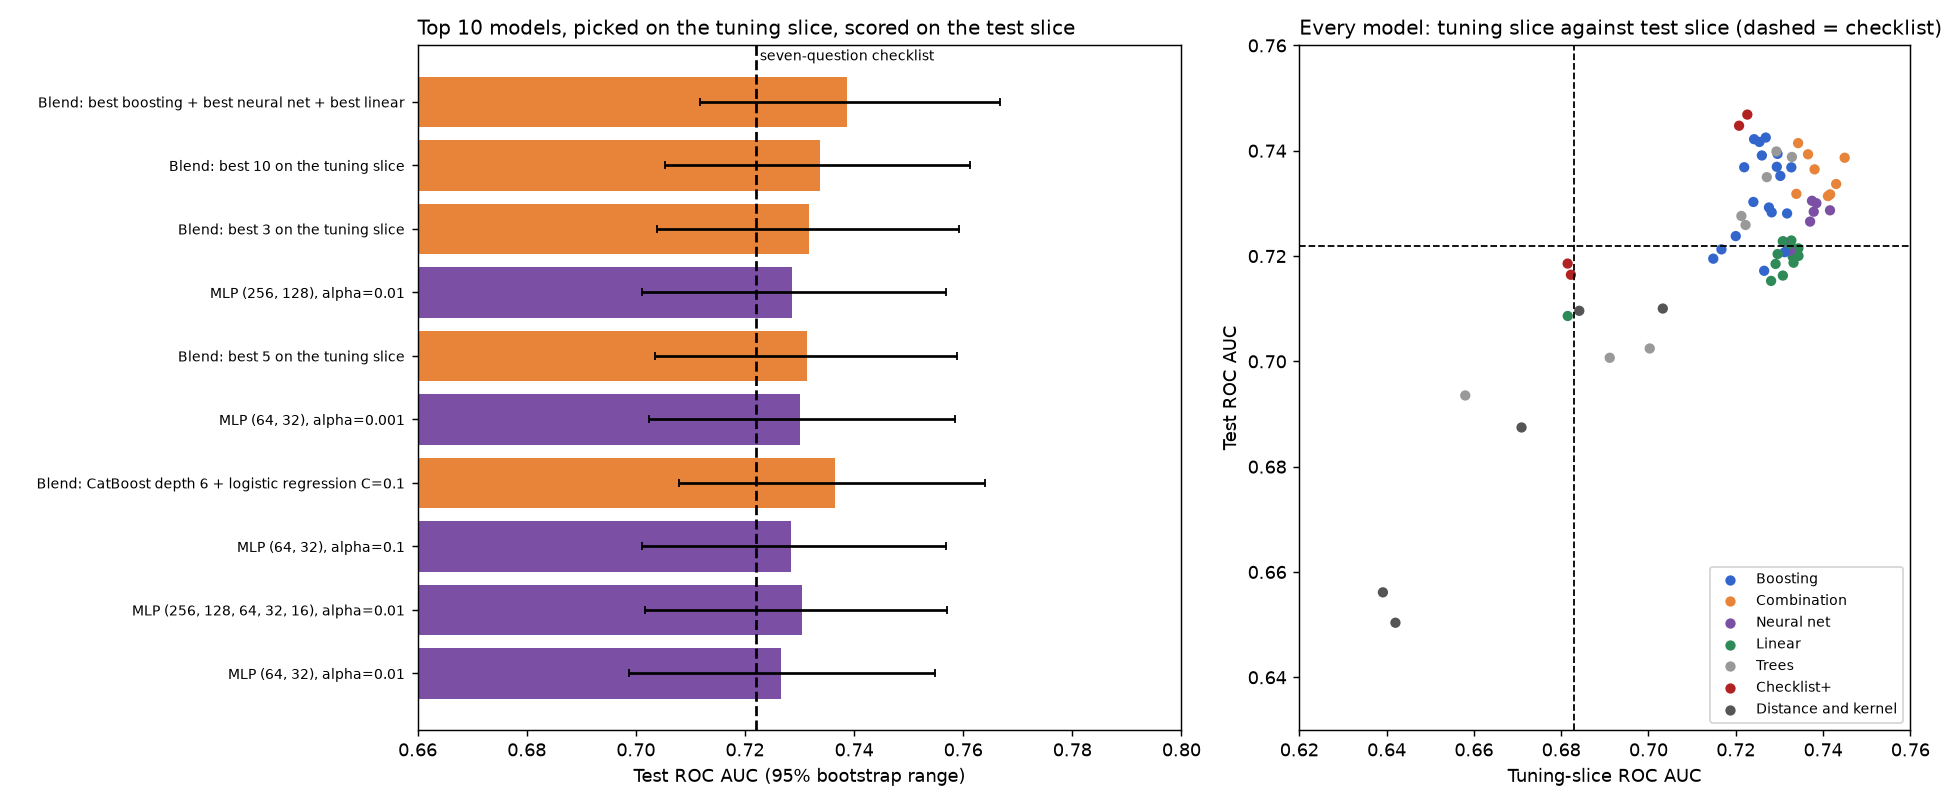
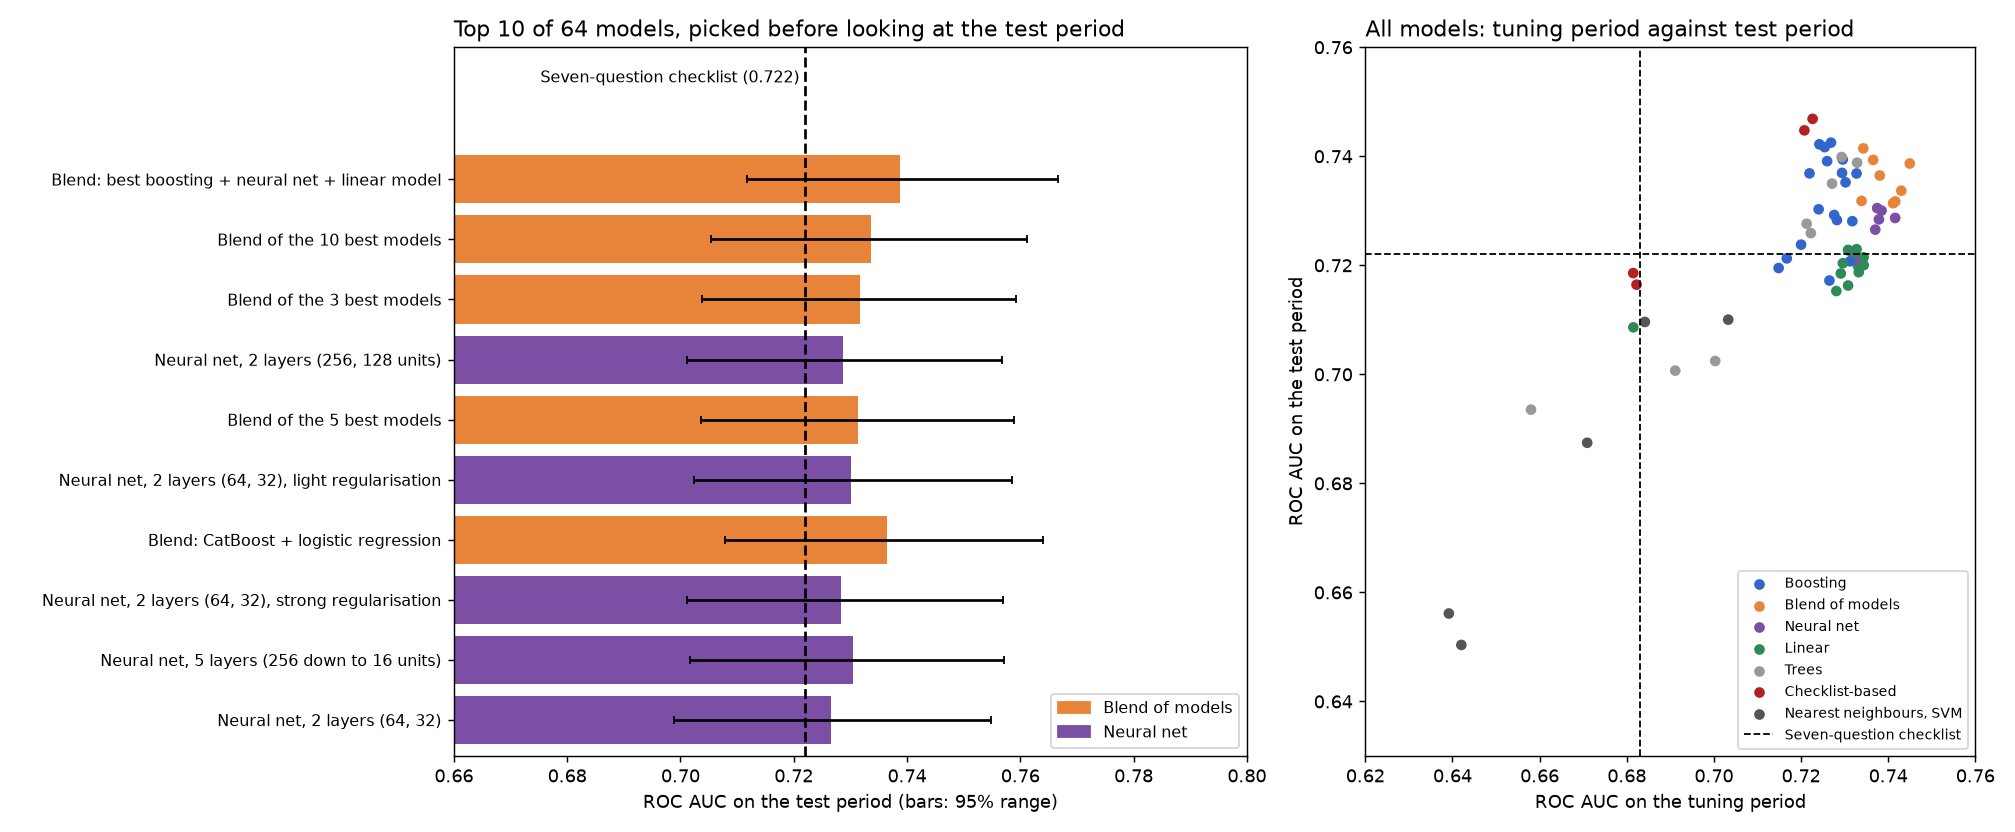
Plain-English labels on the benchmark and spoiler charts

diff --git a/public/replot_benchmark.py b/public/replot_benchmark.py
@@ -1,0 +1,55 @@
+"""Redraw results/benchmark_top10.png from results/benchmark_all_models.csv (no retraining needed)."""
+from pathlib import Path
+
+import matplotlib
+matplotlib.use("Agg")
+import matplotlib.pyplot as plt
+import pandas as pd
+
+HERE = Path(__file__).resolve().parent
+OUT = HERE / "results"
+COL = {"Boosting": "#3366CC", "Combination": "#E8833A", "Neural net": "#7B4FA3", "Linear": "#2E8B57", "Trees": "#999999",
+       "Checklist+": "#B22222", "Distance": "#555555", "Kernel": "#555555"}
+
+
+def nice(name):
+    """Plain-English names for the chart (the CSV keeps the technical names)."""
+    rules = {"Blend: best boosting + best neural net + best linear": "Blend: best boosting + neural net + linear model",
+             "Blend: best 10 on the tuning slice": "Blend of the 10 best models", "Blend: best 5 on the tuning slice": "Blend of the 5 best models",
+             "Blend: best 3 on the tuning slice": "Blend of the 3 best models", "Blend: CatBoost depth 6 + logistic regression C=0.1": "Blend: CatBoost + logistic regression",
+             "MLP (256, 128), alpha=0.01": "Neural net, 2 layers (256, 128 units)", "MLP (64, 32), alpha=0.001": "Neural net, 2 layers (64, 32), light regularisation",
+             "MLP (64, 32), alpha=0.1": "Neural net, 2 layers (64, 32), strong regularisation", "MLP (64, 32), alpha=0.01": "Neural net, 2 layers (64, 32)",
+             "MLP (256, 128, 64, 32, 16), alpha=0.01": "Neural net, 5 layers (256 down to 16 units)"}
+    return rules.get(name, name)
+
+
+def make_figure():
+    tab = pd.read_csv(OUT / "benchmark_all_models.csv")
+    chk = pd.read_csv(OUT / "benchmark_checklist.csv").iloc[0]
+    top = tab.head(10).iloc[::-1]
+    fig, (a1, a2) = plt.subplots(1, 2, figsize=(15.5, 6.4), gridspec_kw={"width_ratios": [1.3, 1]})
+    a1.barh([nice(m) for m in top["model"]], top["test_auc"], xerr=[top["test_auc"] - top["test_lo"], top["test_hi"] - top["test_auc"]],
+            color=[COL[f] for f in top["family"]], ecolor="black", capsize=2)
+    a1.axvline(chk["test_auc"], color="black", ls="--")
+    a1.text(chk["test_auc"] - 0.001, 10.55, f"Seven-question checklist ({chk['test_auc']:.3f})", fontsize=9, va="bottom", ha="right")
+    a1.set_xlim(0.66, 0.8); a1.set_ylim(-0.6, 11.2)
+    a1.set_xlabel("ROC AUC on the test period (bars: 95% range)")
+    a1.set_title("Top 10 of 64 models, picked before looking at the test period", fontsize=12, loc="left")
+    a1.tick_params(axis="y", labelsize=9)
+    from matplotlib.patches import Patch
+    a1.legend(handles=[Patch(color=COL["Combination"], label="Blend of models"), Patch(color=COL["Neural net"], label="Neural net")], fontsize=9, loc="lower right")
+    a2.scatter(tab["val_auc"], tab["test_auc"], c=[COL[f] for f in tab["family"]], s=24)
+    a2.axhline(chk["test_auc"], color="black", ls="--", lw=1); a2.axvline(chk["val_auc"], color="black", ls="--", lw=1)
+    a2.set_xlim(0.62, 0.76); a2.set_ylim(0.63, 0.76)
+    for lab, c in [("Boosting", COL["Boosting"]), ("Blend of models", COL["Combination"]), ("Neural net", COL["Neural net"]), ("Linear", COL["Linear"]),
+                   ("Trees", COL["Trees"]), ("Checklist-based", COL["Checklist+"]), ("Nearest neighbours, SVM", COL["Distance"])]:
+        a2.scatter([], [], c=c, s=24, label=lab)
+    a2.plot([], [], "k--", lw=1, label="Seven-question checklist")
+    a2.legend(fontsize=8, loc="lower right")
+    a2.set_xlabel("ROC AUC on the tuning period"); a2.set_ylabel("ROC AUC on the test period")
+    a2.set_title("All models: tuning period against test period", fontsize=12, loc="left")
+    fig.tight_layout(); fig.savefig(OUT / "benchmark_top10.png", dpi=130); plt.close(fig)
+
+
+if __name__ == "__main__":
+    make_figure()

diff --git a/public/benchmark_models.py b/public/benchmark_models.py
@@ -284,19 +284,7 @@ print("\nTest AUC of the 10 models best on TEST (optimistic, shown only to size 
       % (tab.test_auc.nlargest(10).mean(), top.test_auc.mean()))
 
 # ------------------------------------------------------------------ figure
-fig, (a1, a2) = plt.subplots(1, 2, figsize=(15, 6.2), gridspec_kw={"width_ratios": [1.25, 1]})
-t = top.iloc[::-1]
-cols = {"Boosting": "#3366CC", "Combination": "#E8833A", "Neural net": "#7B4FA3", "Linear": "#2E8B57", "Trees": "#999999", "Checklist+": "#B22222", "Distance": "#555555", "Kernel": "#555555"}
-a1.barh(t["model"], t["test_auc"], xerr=[t["test_auc"] - t["test_lo"], t["test_hi"] - t["test_auc"]], color=[cols.get(f, "#888") for f in t["family"]], ecolor="black", capsize=2)
-a1.axvline(chk_auc_te, color="black", ls="--"); a1.text(chk_auc_te, 9.6, " seven-question checklist", fontsize=8, va="bottom")
-a1.set_xlim(0.66, 0.8); a1.set_xlabel("Test ROC AUC (95% bootstrap range)"); a1.set_title("Top 10 models, picked on the tuning slice, scored on the test slice", fontsize=11, loc="left")
-a1.tick_params(axis="y", labelsize=8)
-a2.scatter(tab["val_auc"], tab["test_auc"], c=[cols.get(f, "#888") for f in tab["family"]], s=22)
-a2.axhline(chk_auc_te, color="black", ls="--", lw=1); a2.axvline(chk_auc_va, color="black", ls="--", lw=1)
-a2.set_xlim(0.62, 0.76); a2.set_ylim(0.63, 0.76)   # the naive Bayes outlier (0.53, 0.52) is left off the chart
-for fam, colr in [("Boosting", "#3366CC"), ("Combination", "#E8833A"), ("Neural net", "#7B4FA3"), ("Linear", "#2E8B57"), ("Trees", "#999999"), ("Checklist+", "#B22222"), ("Distance and kernel", "#555555")]:
-    a2.scatter([], [], c=colr, s=22, label=fam)
-a2.legend(fontsize=8, loc="lower right")
-a2.set_xlabel("Tuning-slice ROC AUC"); a2.set_ylabel("Test ROC AUC"); a2.set_title("Every model: tuning slice against test slice (dashed = checklist)", fontsize=11, loc="left")
-fig.tight_layout(); fig.savefig(OUT / "benchmark_top10.png", dpi=130)
+pd.DataFrame([{"checklist": "seven-question checklist", "val_auc": chk_auc_va, "test_auc": chk_auc_te}]).to_csv(OUT / "benchmark_checklist.csv", index=False)
+from replot_benchmark import make_figure
+make_figure()
 print("done")

diff --git a/scripts/20_spoiler_chart.py b/scripts/20_spoiler_chart.py
@@ -33,13 +33,13 @@ a1.set_xlim(-0.1, 10); a1.set_ylim(-0.1, 10); a1.set_aspect("equal"); a1.axis("o
 a1.set_title(f"Only {k} of 100 postings end in a hire", fontsize=13, fontweight="bold", loc="left")
 a1.text(0, -0.9, f"{hired:,} of {n:,} postings (orange: hired, grey: not hired)", fontsize=10, va="top")
 
-labels = ["30 random postings", "30 postings picked\nby the checklist"]
+labels = ["30 random postings", "30 postings with the\nbest checklist scores"]
 vals = [rate_random * 30, rate_check * 30]
 bars = a2.bar(labels, vals, color=[GREY, ORANGE], width=0.55)
 for b, v, usd in zip(bars, vals, [usd_random, usd_check]):
     a2.text(b.get_x() + b.get_width() / 2, v + 0.3, f"{fmt(v)} hires\n${fmt(usd, 2)} per hire", ha="center", va="bottom", fontsize=11)
 a2.set_ylim(0, max(vals) * 1.35); a2.set_ylabel("Hires per 30 applications"); a2.spines[["top", "right"]].set_visible(False)
-a2.set_title(f"Each hire costs {saving * 100:.0f}% fewer Connects", fontsize=13, fontweight="bold", loc="left")
+a2.set_title(f"Checklist: {saving * 100:.0f}% fewer Connects per hire", fontsize=13, fontweight="bold", loc="left")
 a2.text(0.5, -0.2, "Test period; 15 Connects at $0.10 per application (assumption)", transform=a2.transAxes, ha="center", fontsize=9, color="#555555")
 fig.tight_layout()
 fig.savefig(FIG / "39_spoiler_hire_share.png", dpi=140)
